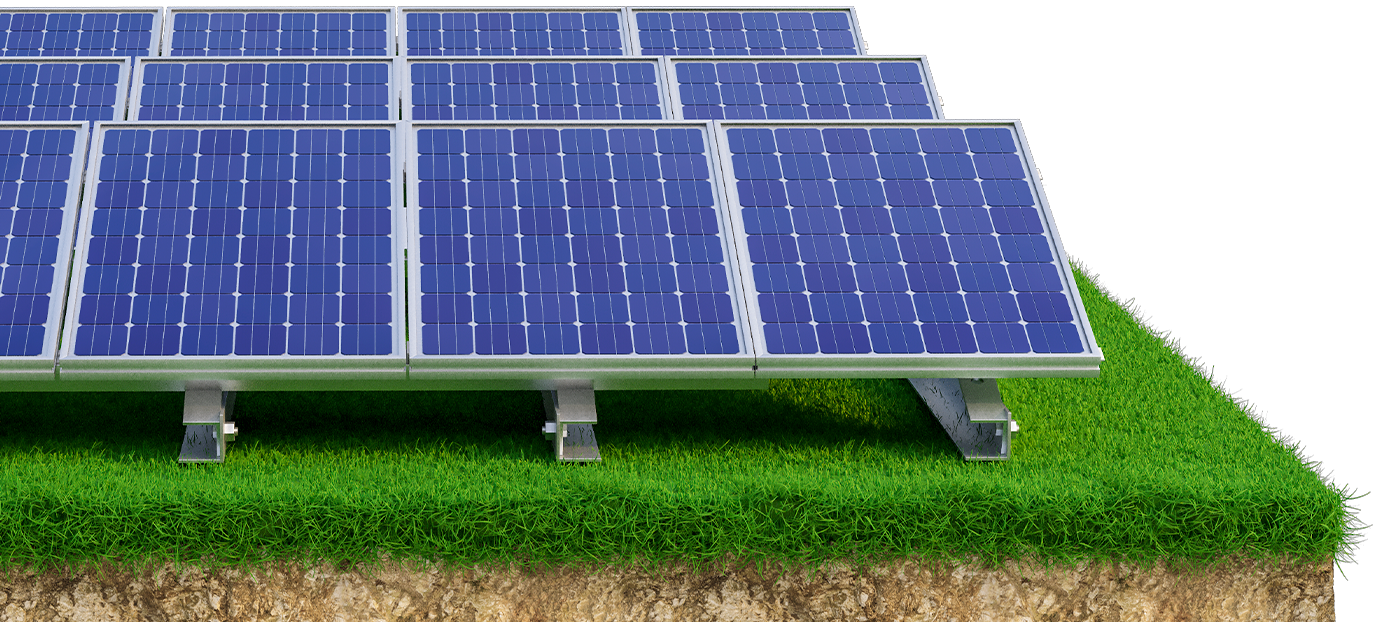
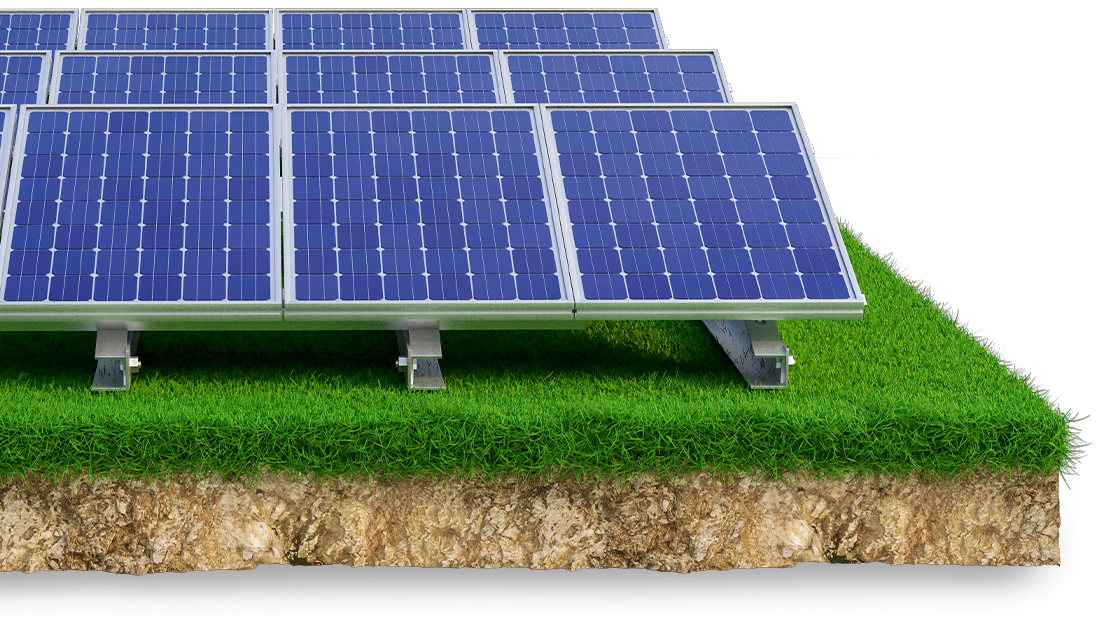
v att

diff --git a/style.css b/style.css
@@ -459,7 +459,7 @@ html {
     width: 100vw;
     background-image: url('./assets/imgs/grama.png');
     background-repeat: no-repeat;
-    background-size: 60%;
+    background-size: 50%;
     background-position: bottom left;
     display: flex;
 }
